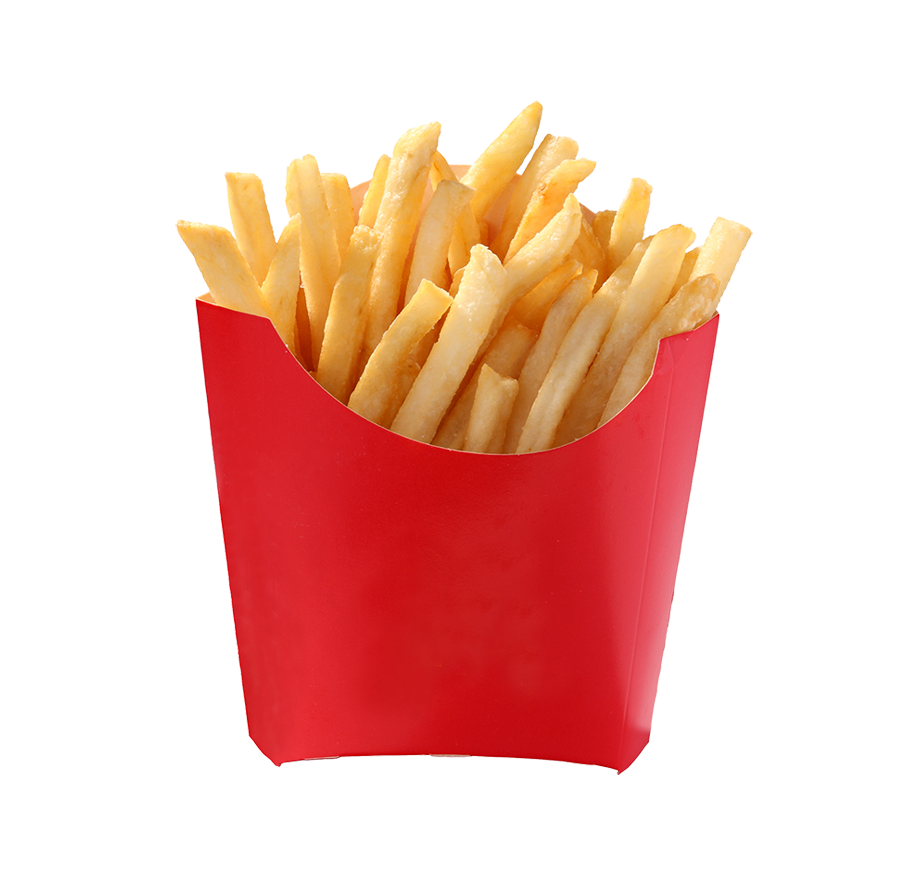
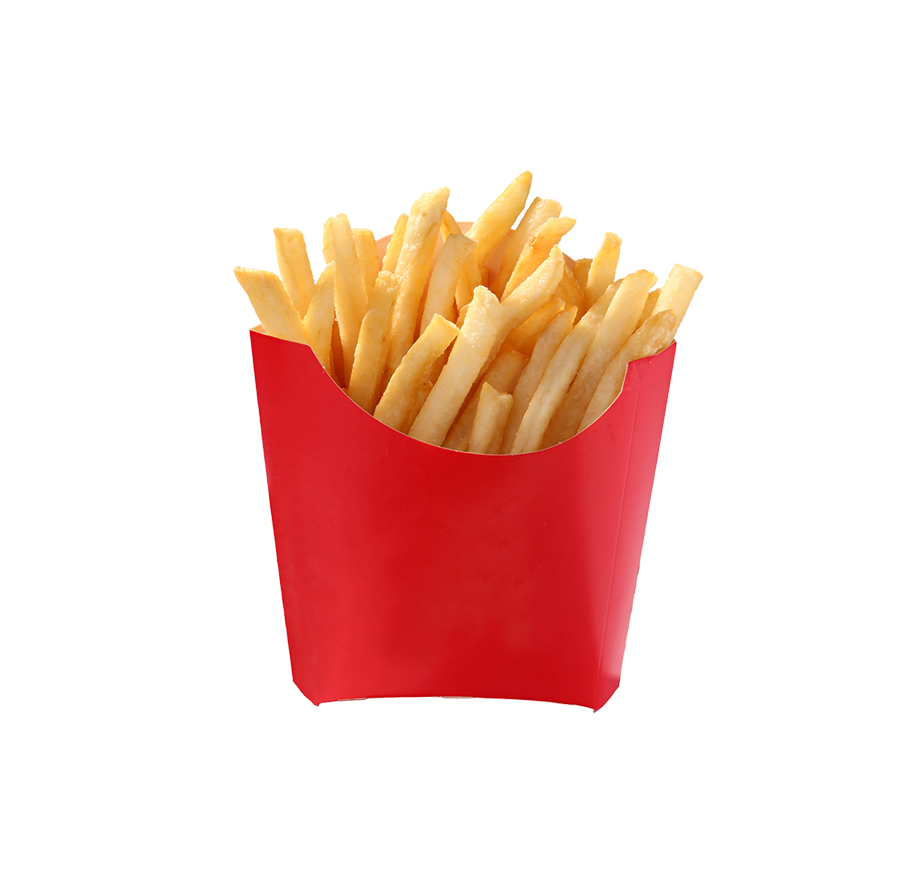
carousel swipe added

Changed region(s): [[0.1836, 0.123, 0.8262, 0.8918]]

diff --git a/about-us.html b/about-us.html
@@ -60,41 +60,51 @@
                 <p class="lead">We're a food industry that aims to provide provide the best dishes out there. Our values include providing fair wages for workers, giving back to the communities we work with, and serving great food because everybody deserve the decent food.</p>
             </div>
 
-            <!-- about us slider -->
-            <div id="about-slider">
-                <div id="carousel-slider" class="carousel slide" data-ride="carousel">
-                    <!-- Indicators -->
-                    <ol class="carousel-indicators visible-xs">
-                        <li data-target="#carousel-slider" data-slide-to="0" class="active"></li>
-                        <li data-target="#carousel-slider" data-slide-to="1"></li>
-                        <li data-target="#carousel-slider" data-slide-to="2"></li>
-                    </ol>
-
-                    <div class="carousel-inner">
-                        <div class="item active">
-                            <img src="images/background/tomatoes.jpg" class="img-responsive" alt="">
+            <section id="carousel">
+                <div class="container wow fadeInDown" data-wow-duration="1000ms" data-wow-delay="600ms">
+                    <div class="center">
+        
+                        <div id="myCarousel" class="carousel slide" data-ride="carousel">
+                            <!-- Indicators -->
+                            <ol class="carousel-indicators pt-5">
+                                <li data-target="#myCarousel" data-slide-to="0" class="active"></li>
+                                <li data-target="#myCarousel" data-slide-to="1"></li>
+                                <li data-target="#myCarousel" data-slide-to="2"></li>
+                            </ol>
+        
+                            <!-- Wrapper for slides -->
+                            <div class="carousel-inner">
+                                <div class="item active">
+                                    <center>
+                                        <img src="images/background/chef.jpg " class="img-responsive" >
+                                    </center>
+                                </div>
+        
+                                <div class="item">
+                                    <center>
+                                        <img src="images/background/tomatoes.jpg" class="img-responsive" >
+                                    </center>
+                                </div>
+        
+                                <div class="item">
+                                    <center>
+                                        <img src="images/background/chef2.jpg" class="img-responsive">
+                                    </center>
+                                </div>
+                            </div>
+        
+                            <!-- Left and right controls -->
+                            <a class="left carousel-control" href="#myCarousel" data-slide="prev" style="color:black">
+                                <span class="glyphicon glyphicon-chevron-left"></span>
+                                <span class="sr-only">Previous</span>
+                            </a>
+                            <a class="right carousel-control" href="#myCarousel" data-slide="next" style="color:black">
+                                <span class="glyphicon glyphicon-chevron-right"></span>
+                                <span class="sr-only">Next</span>
+                            </a>
                         </div>
-                        <div class="item">
-                            <img src="images/background/chef.jpg" class="img-responsive" alt="">
-                        </div>
-                        <div class="item">
-                            <img src="images/background/chef2.jpg" class="img-responsive" alt="">
-                        </div>
-
                     </div>
-
-                    <a class="left carousel-control hidden-xs" href="#carousel-slider" data-slide="prev">
-                        <i class="fa fa-angle-left"></i>
-                    </a>
-
-                    <a class=" right carousel-control hidden-xs" href="#carousel-slider" data-slide="next">
-                        <i class="fa fa-angle-right"></i>
-                    </a>
-                </div>
-                <!--/#carousel-slider-->
-            </div>
-            <!--/#about-slider-->
-
+                </section>
 
             <!-- Our Skill -->
             <div class="skill-wrap clearfix">
@@ -193,15 +203,13 @@
 
 
     <script src="js/jquery.js"></script>
-    <script type="text/javascript">
-        $('.carousel').carousel()
-        
-    </script>
     <script src="js/bootstrap.min.js"></script>
     <script src="js/jquery.prettyPhoto.js"></script>
     <script src="js/jquery.isotope.min.js"></script>
     <script src="js/main.js"></script>
+    <script src="js/carousel.min.js"></script>
     <script src="js/wow.min.js"></script>
+
 </body>
 
 </html>

diff --git a/menu.html b/menu.html
@@ -69,7 +69,7 @@
                     <div class="carousel-inner">
                         <div class="item active">
                             <center>
-                                <img src="images/slider/Burger.png" class="img-responsive" style="height:400px">
+                                <img src="images/slider/Burger.png" class="img-responsive" style="height: 400px;">
                             </center>
                         </div>
 
@@ -102,7 +102,7 @@
             <!--/#best-filter-->
     <section id="List">
 
-        <div class="row">
+        <div class="row" style="width: 100%;">
             <div class="album py-5 bg-light">
                 <div class="container center wow fadeInDown">
                     <h2>List</h2>
@@ -318,24 +318,11 @@
     <script src="js/jquery.prettyPhoto.js "></script>
     <script src="js/jquery.isotope.min.js "></script>
     <script src="js/main.js "></script>
+    <script src="js/carousel.min.js"></script>
     <script src="js/wow.min.js "></script>
 </body>
 
 </html>
 
-<script>
-    function menu(evt, cityName) {
-        var i, tabcontent, tablinks;
-        tabcontent = document.getElementsByClassName("tabcontent ");
-        for (i = 0; i < tabcontent.length; i++) {
-            tabcontent[i].style.display = "none ";
-        }
-        tablinks = document.getElementsByClassName("tablinks ");
-        for (i = 0; i < tablinks.length; i++) {
-            tablinks[i].className = tablinks[i].className.replace(" active ", " ");
-        }
-        document.getElementById(cityName).style.display = "block ";
-        evt.currentTarget.className += " active ";
-    }
 
-</script>
+

diff --git a/home.html b/home.html
@@ -17,6 +17,13 @@
     <link rel="shortcut icon" href="images/icon.png">
     <script src="js/jquery.js"></script>
 
+    <style>
+        html, body {
+            max-width: 100%;
+            overflow-x: hidden;
+        }
+    </style>
+
     <body class="homepage">
         <audio hidden autoplay controls src="music/intro_music.mp3" id="intro_music" type="audio/mpeg"></audio>
 
@@ -107,7 +114,7 @@
                     <div class="col">
                         <div class="portfolio-item bootstrap wordpress col-xs-12 col-sm-12 col-md-12 ">
                             <div class="recent-work-wrap">
-                                <video controls autoplay muted preload="none" style="width:100%;height: auto;"><source src="video/cooking_scene.mp4" frameborder="0" id="home_video" allowfullscreen></video>
+                                <video controls autoplay muted preload="none" style="width:100%;height: auto;background-color: black;"><source src="video/cooking_scene.mp4" frameborder="0" id="home_video" allowfullscreen></video>
                             </div>
                         </div>
                     </div>
@@ -211,6 +218,7 @@
             audio.volume = 0.2;
             var video = document.getElementById("home_video");
             video.volume = 0.3;
+
         </script>
     </body>
 

diff --git a/js/carousel.min.js b/js/carousel.min.js
@@ -1,0 +1,31 @@
+function menu(evt, cityName) {
+    var i, tabcontent, tablinks;
+    tabcontent = document.getElementsByClassName("tabcontent ");
+    for (i = 0; i < tabcontent.length; i++) {
+        tabcontent[i].style.display = "none ";
+    }
+    tablinks = document.getElementsByClassName("tablinks ");
+    for (i = 0; i < tablinks.length; i++) {
+        tablinks[i].className = tablinks[i].className.replace(" active ", " ");
+    }
+    document.getElementById(cityName).style.display = "block ";
+    evt.currentTarget.className += " active ";
+}
+
+$('#myCarousel').on('touchstart', function(event){
+const xClick = event.originalEvent.touches[0].pageX;
+$(this).one('touchmove', function(event){
+    const xMove = event.originalEvent.touches[0].pageX;
+    const sensitivityInPx = 5;
+
+    if( Math.floor(xClick - xMove) > sensitivityInPx ){
+        $(this).carousel('next');
+    }
+    else if( Math.floor(xClick - xMove) < -sensitivityInPx ){
+        $(this).carousel('prev');
+    }
+});
+$(this).on('touchend', function(){
+    $(this).off('touchmove');
+});
+});
